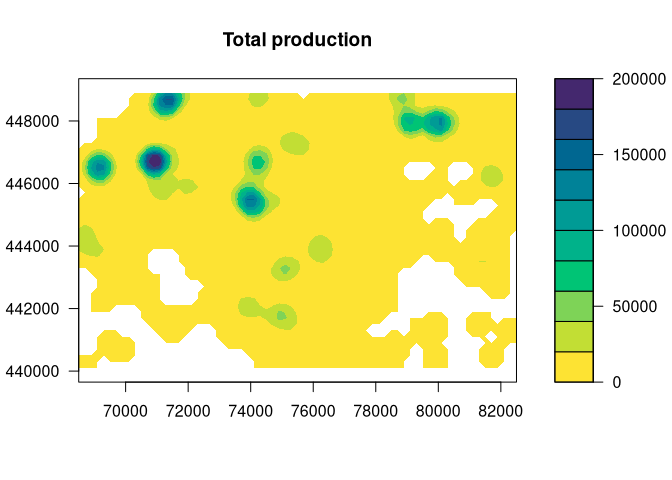
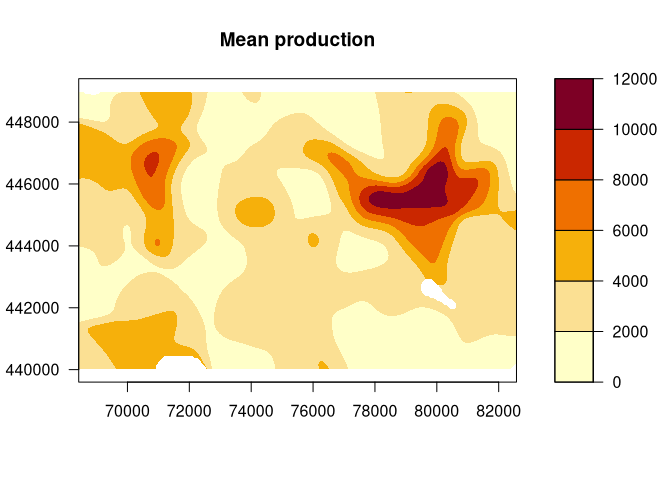
improved readme

diff --git a/README.md b/README.md
@@ -93,19 +93,23 @@ plot(smoothed)
 
 ``` r
 # let's smooth to reduce the sensitivity, with higher resolution
-# smoothed <- protect_smooth(production, bw = 400, fact=4, keep_resolution=FALSE)
-# plot(smoothed)
+smoothed <- protect_smooth(production, bw = 400, smooth_fact=4, keep_resolution=FALSE)
+plot(smoothed)
+```
 
+<img src="man/figures/README-example-4.png" width="100%" />
+
+``` r
 # what is the sensitivy fraction?
 sensitivity_score(smoothed)
-#> [1] 0.09800066
+#> [1] 0.007902973
 
 # let's remove the sensitive data.
 smoothed_safe <- remove_sensitive(smoothed, min_count = 3)
 plot(smoothed_safe)
 ```
 
-<img src="man/figures/README-example-4.png" width="100%" />
+<img src="man/figures/README-example-5.png" width="100%" />
 
 ``` r
 # let's communicate!
@@ -116,7 +120,7 @@ production_total <- sum(smoothed_safe)
 raster::filledContour(production_mean, nlevels = 6, main = "Mean production")
 ```
 
-<img src="man/figures/README-example-5.png" width="100%" />
+<img src="man/figures/README-example-6.png" width="100%" />
 
 ``` r
 
@@ -130,4 +134,4 @@ raster::filledContour(production_total, nlevels = 11
              , main="Total production")
 ```
 
-<img src="man/figures/README-example-6.png" width="100%" />
+<img src="man/figures/README-example-7.png" width="100%" />
